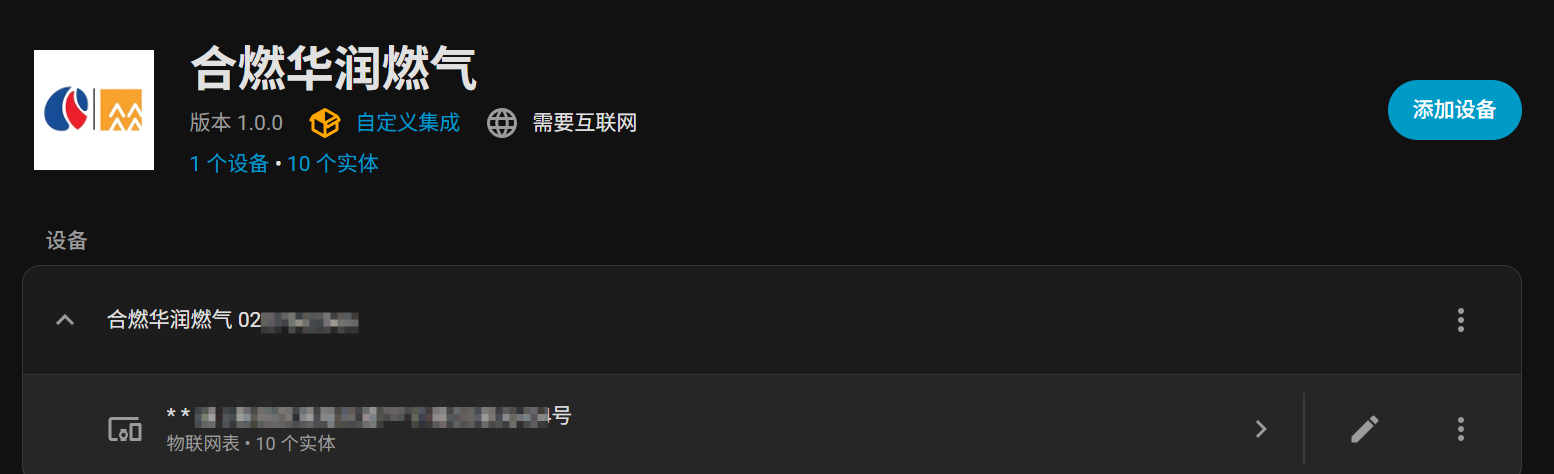
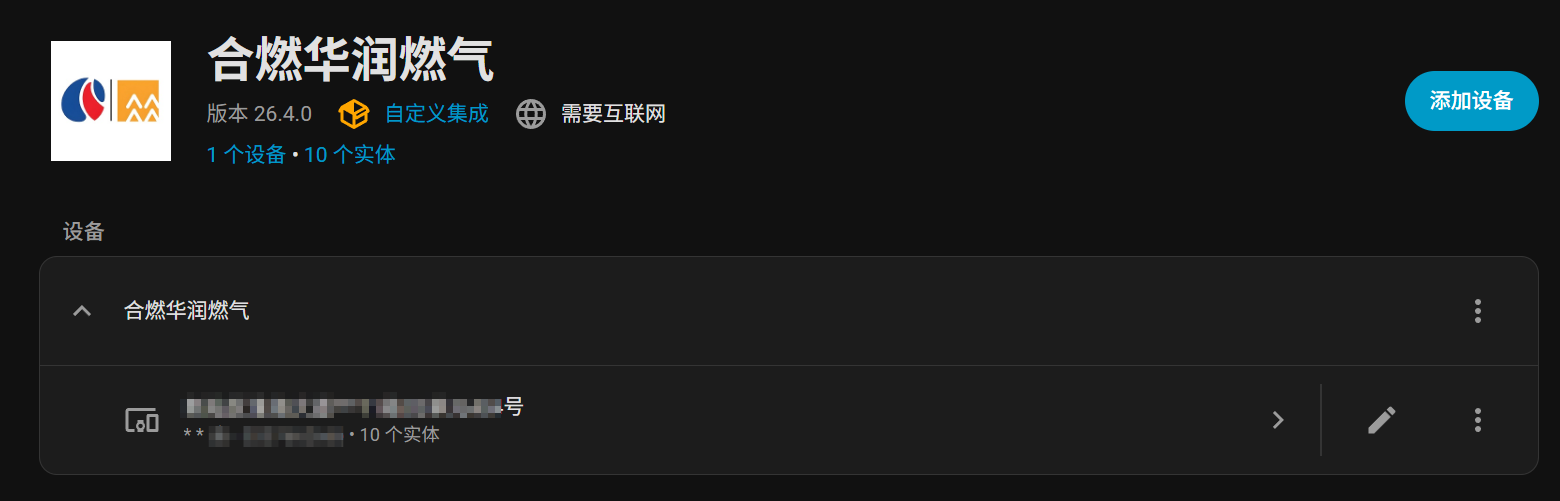
refactor: update entry title, device name, entity ID format and read version from manifest

diff --git a/custom_components/hfcrgas/sensor.py b/custom_components/hfcrgas/sensor.py
@@ -140,23 +140,29 @@ class HFCRGasSensorEntity(CoordinatorEntity[HFCRGasCoordinator], SensorEntity):
         """初始化传感器."""
         super().__init__(coordinator)
         self.entity_description = description
-        self._attr_unique_id = f"{huhao}_{description.key}"
-        # 设备名称：用户名称 | 地址
+        self._attr_unique_id = f"hfcrgas_{huhao}_{description.key}"
+
+        # 设备名称：地址
+        address = coordinator.api.address or "未知地址"
+        # 型号：用户名 - 户号
         user_name = coordinator.api.user_name or ""
-        address = coordinator.api.address or ""
-        if user_name and address:
-            device_name = f"{user_name} | {address}"
-        elif user_name:
-            device_name = user_name
-        elif address:
-            device_name = address
-        else:
-            device_name = f"合燃华润燃气 {huhao}"
+        model = f"{user_name} - {huhao}" if user_name else huhao
+
+        # 从 manifest.json 读取版本号
+        import json
+        from pathlib import Path
+        manifest_path = Path(__file__).parent / "manifest.json"
+        try:
+            sw_version = json.loads(manifest_path.read_text(encoding="utf-8")).get("version", "unknown")
+        except Exception:
+            sw_version = "unknown"
+
         self._attr_device_info = {
             "identifiers": {(DOMAIN, huhao)},
-            "name": device_name,
-            "manufacturer": "合燃华润燃气",
-            "model": coordinator.api.meter_type or "燃气表",
+            "name": address,
+            "manufacturer": "合肥华润燃气",
+            "model": model,
+            "sw_version": sw_version,
         }
         self.huhao = huhao
 

diff --git a/custom_components/hfcrgas/config_flow.py b/custom_components/hfcrgas/config_flow.py
@@ -69,7 +69,7 @@ class HFCRGasConfigFlow(config_entries.ConfigFlow, domain=DOMAIN):
                 await api.close()
 
                 return self.async_create_entry(
-                    title=f"合燃华润燃气 {huhao}",
+                    title="合燃华润燃气",
                     data=data,
                 )
 

diff --git a/README.md b/README.md
@@ -47,8 +47,10 @@
 
 配置成功后，将创建以下传感器：
 
-- **集成条目名称**：合燃华润燃气 {户号}
-- **设备名称**：{用户名} | {地址}
+- **集成条目名称**：合肥华润燃气
+- **设备名称**：{地址}
+- **设备型号**：{用户名} - {户号}
+- **实体 ID**：sensor.hfcrgas_{户号}_{实体英文名}
 
 | 传感器 | 说明 | 单位 |
 |--------|------|------|
